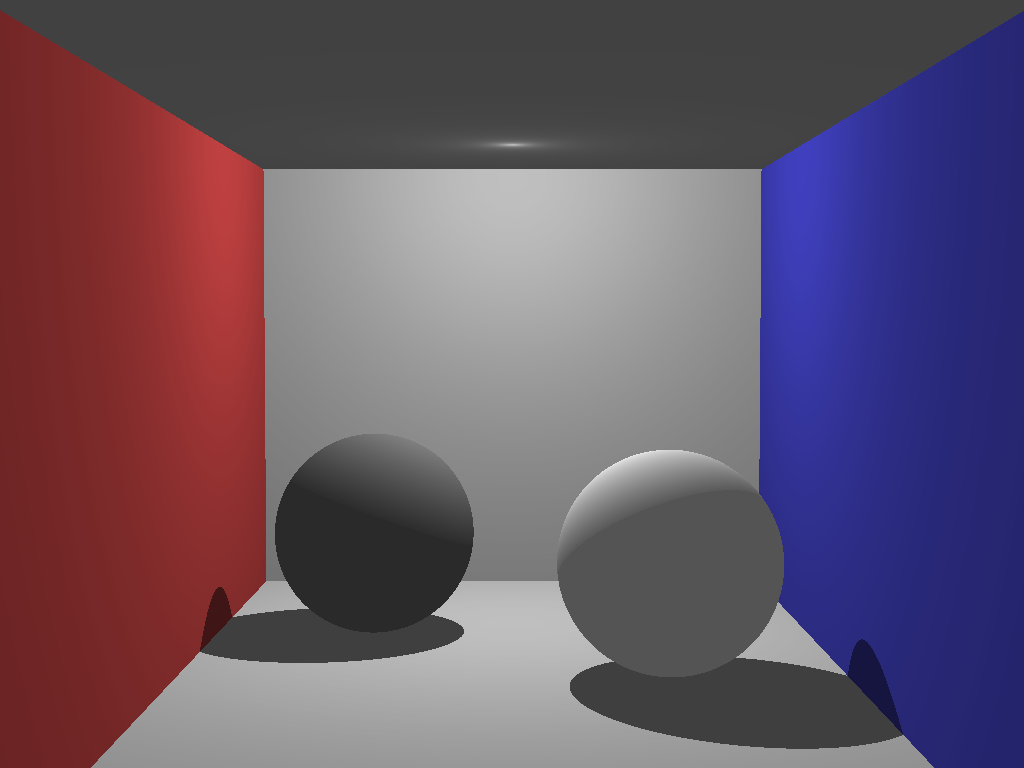
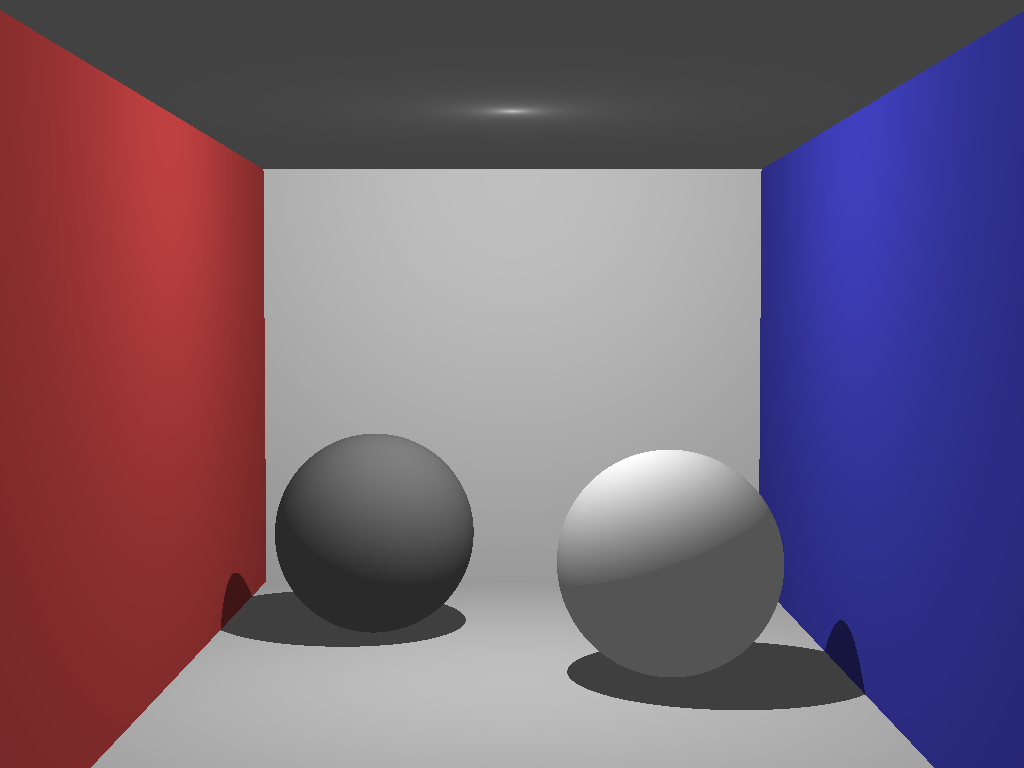
Fixed light position

Changed region(s): [[0.0312, 0.0312, 0.9688, 0.875], [0.375, 0.8125, 0.9062, 1.0], [0.4375, 0.125, 0.5625, 0.2188]]

diff --git a/src/Main.cpp b/src/Main.cpp
@@ -15,7 +15,7 @@ Sphere spheres[] = {
 };
 int numSpheres = sizeof(spheres) / sizeof(Sphere);
 
-vec3d plp(50, 80, 40.8);     // point light position
+vec3d plp(50, 80, 81.6);     // point light position
 color4i plc(1.0, 1.0, 1.0);  // point light color
 
 color4i radiance(const Sphere& s, const Ray& r) {
